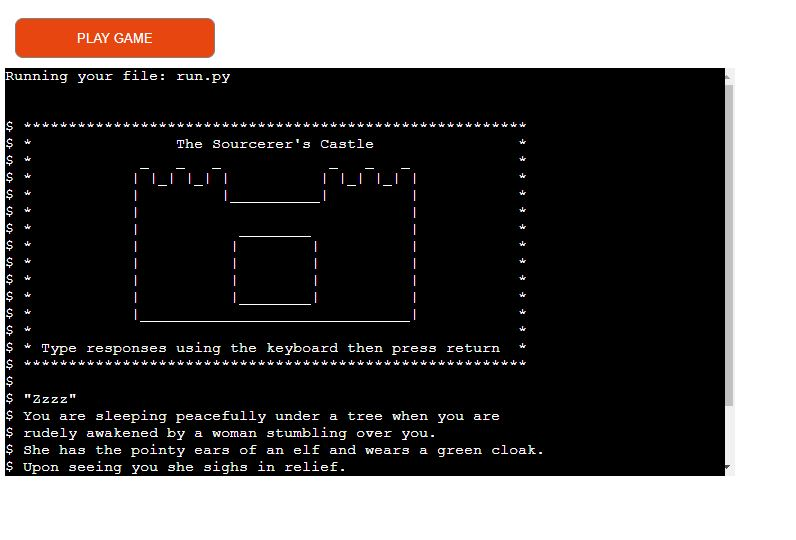
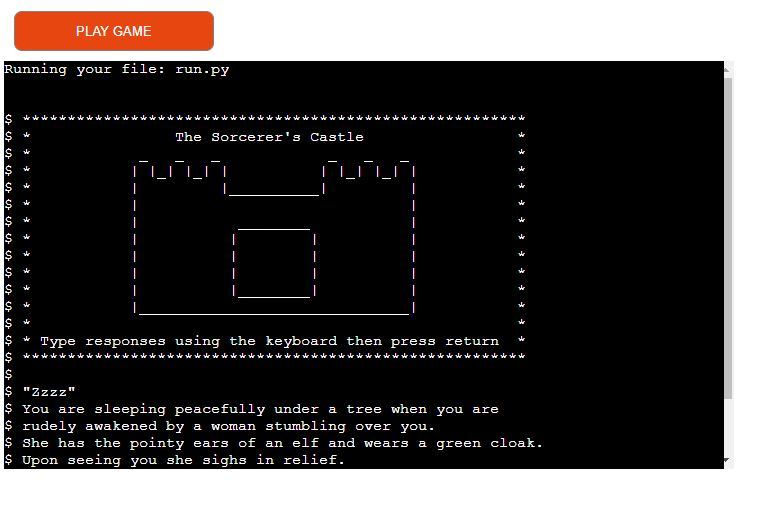
Update readme images for corrected typo

Changed region(s): [[0.0, 0.0, 0.9688, 0.9339], [0.6562, 0.4669, 0.6875, 0.4981]]

diff --git a/README.md b/README.md
@@ -17,7 +17,7 @@ A flow chart of the different game routes can be viewed [here.](assets/screensho
 ## Features
 
 * ### Graphics
-    * Simple graphics for the introductory message, game over message and win game message break up the text and make the came more visually interesting.
+    * Simple graphics for the introductory message, game over message and win game message break up the text and make the game more visually interesting.
 
 ![Game Graphics](assets/screenshots/sorcerers-castle-graphics.jpg)
 
